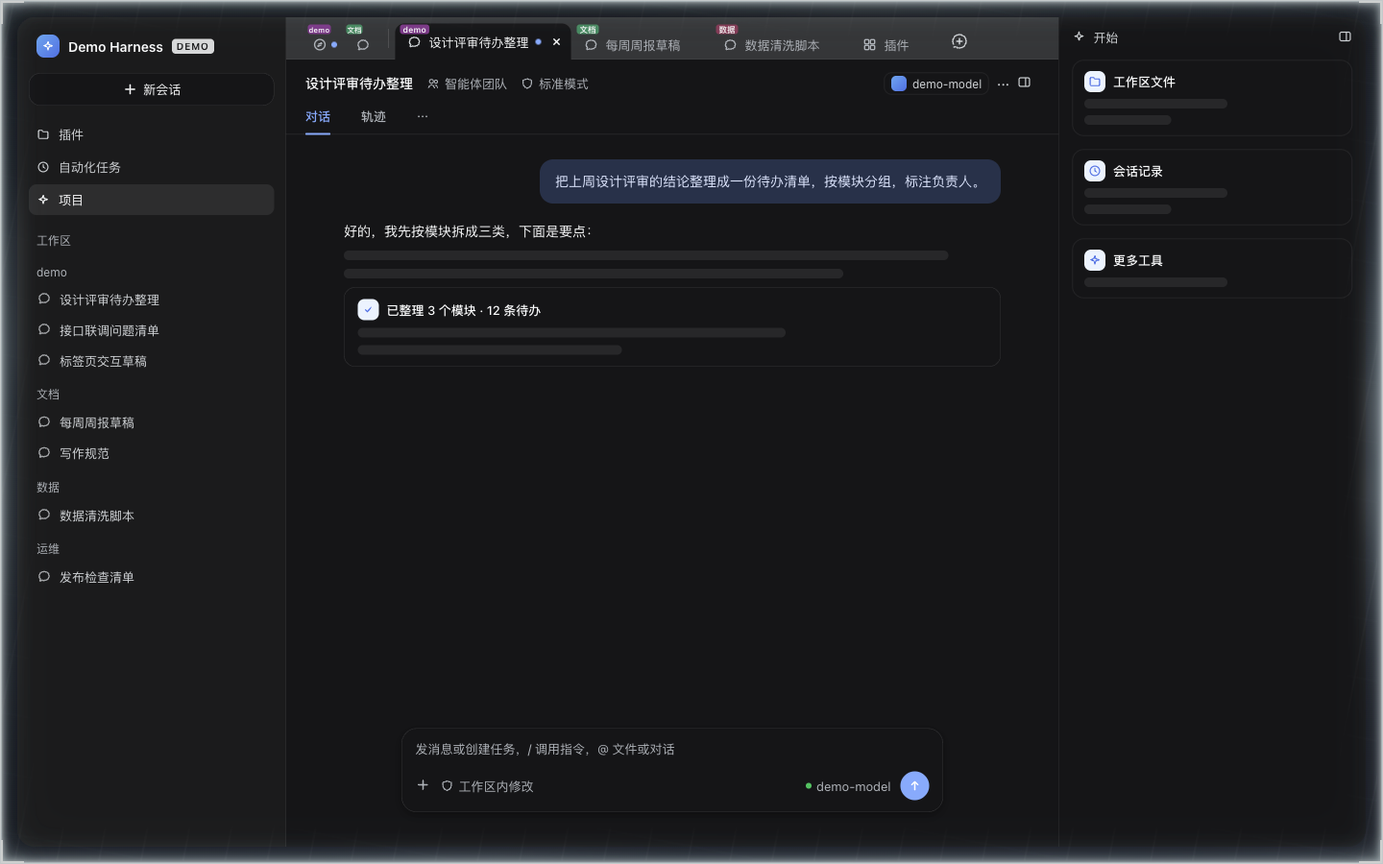
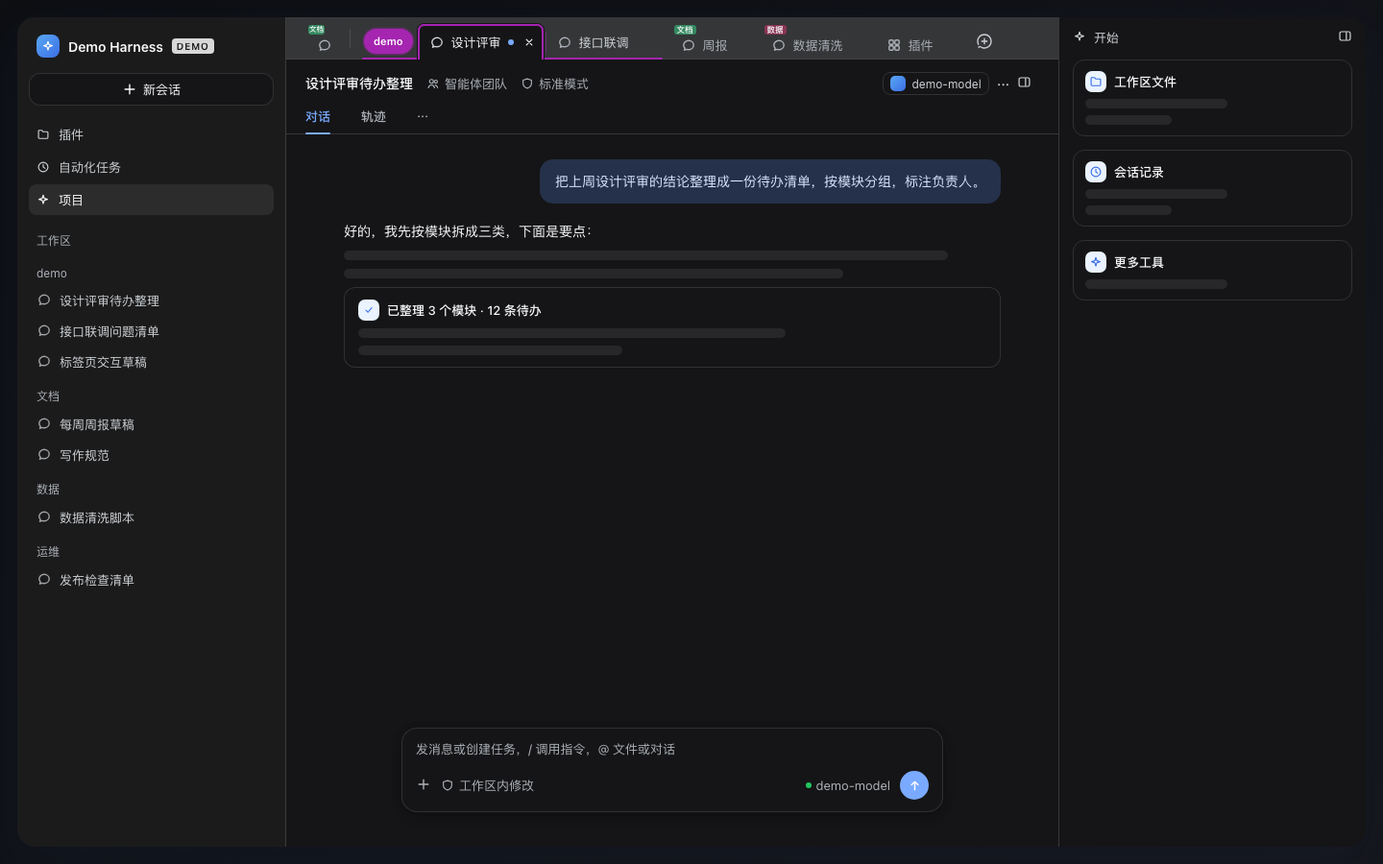
docs: 0.4.0 文档与截图更新（工作区标签组、点击不位移）
- README 功能/使用/原理/已知边界更新：工作区标签组、折叠、点击不改变宽高、移除 1.5 倍与 150ms 延迟说明
- CHANGELOG 0.4.0；版本 0.4.0
- mock 演示页改为工作区标签组；新增展开/折叠截图与顶栏特写

diff --git a/docs/mock/demo.html b/docs/mock/demo.html
@@ -150,16 +150,15 @@ html[data-windows-titlebar] .dsh-tab-pagebar{top:var(--dsh-windows-titlebar-heig
   background:transparent;color:var(--dsw-alias-label-tertiary);font:inherit;font-size:13px;line-height:18px;
   cursor:pointer;user-select:none;-webkit-user-select:none;-webkit-app-region:no-drag;touch-action:pan-y;
   animation:dsh-tab-enter .16s ease;
-  transition:background-color .12s ease,color .12s ease,height .14s cubic-bezier(.2,.7,.2,1),
-    max-width .14s cubic-bezier(.2,.7,.2,1),border-color .12s ease,border-radius .14s ease,box-shadow .12s ease}
+  transition:background-color .1s ease,color .1s ease,border-color .1s ease,box-shadow .1s ease}
 .dsh-tab-pagebar__tab:hover{background:var(--dsw-alias-interactive-bg-hover);color:var(--dsw-alias-label-secondary)}
 /* 选中标签：抬到页面底色、不画底边线，和下面的会话页连成一张纸；
    可用宽度是普通标签的 1.5 倍（180 → 270），标题短就按实际文字宽度收住、不留空白，
    标题长才展开到 1.5 倍。切换时宽度和高度一起过渡
    （只保留上方圆角，底部直角直接接页面，不再做额外的反圆角装饰） */
-.dsh-tab-pagebar__tab[aria-selected=true]{max-width:calc(var(--dsh-tab-max-width) * 1.5);height:38px;
-  background:var(--dsw-alias-bg-base);
-  border-color:var(--dsw-alias-border-l2);border-radius:10px 10px 0 0;color:var(--dsw-alias-label-primary)}
+.dsh-tab-pagebar__tab[aria-selected=true]{z-index:1;background:var(--dsw-alias-bg-base);
+  border-color:var(--dsw-alias-border-l2);border-radius:8px 8px 0 0;color:var(--dsw-alias-label-primary);
+  box-shadow:0 2px 8px 0 rgba(15,20,40,.07)}
 .dsh-tab-pagebar__tab[aria-selected=true]:hover{background:var(--dsw-alias-bg-base);
   color:var(--dsw-alias-label-primary)}
 /* 固定标签：只剩图标、宽度固定 40px；激活时也不展开 */
@@ -175,11 +174,44 @@ html[data-windows-titlebar] .dsh-tab-pagebar{top:var(--dsh-windows-titlebar-heig
 .dsh-tab-pagebar__tab[data-drop=before]{box-shadow:inset 2px 0 0 var(--dsw-alias-state-business-primary)}
 .dsh-tab-pagebar__tab[data-drop=after]{box-shadow:inset -2px 0 0 var(--dsw-alias-state-business-primary)}
 /* 左上角小角标：所属工作区（短名，悬停看全名） */
+/* 工作区标签组：参考 Chrome 标签组——淡色底 + 组头胶囊 + 组底部色线，色线绕过激活标签 */
+.dsh-tab-pagebar__group{position:relative;z-index:1;flex:none;display:flex;align-items:center;align-self:flex-end;
+  height:38px;margin:0 6px;padding:0 3px 0 2px;box-sizing:border-box;border-radius:10px 10px 0 0;
+  background:transparent}
+.dsh-tab-pagebar__group::after{content:"";position:absolute;left:0;right:0;bottom:0;height:2px;z-index:0;
+  background:hsl(var(--dsh-tab-group-hue, 214) 65% 42%);border-radius:1px;pointer-events:none}
+.dsh-tab-pagebar__group[data-collapsed=true]{height:auto;padding:0;margin:0 4px;background:transparent;border-radius:0}
+.dsh-tab-pagebar__group[data-collapsed=true]::after{display:none}
+.dsh-tab-pagebar__group-chip{flex:none;display:inline-flex;align-items:center;gap:4px;max-width:170px;
+  height:26px;padding:0 10px;margin-right:4px;border:none;border-radius:999px;color:#fff;font-family:inherit;
+  font-size:11px;font-weight:600;line-height:26px;cursor:pointer;overflow:hidden;white-space:nowrap;
+  background:hsl(var(--dsh-tab-group-hue, 214) 65% 42%);
+  box-shadow:0 0 0 .5px hsl(var(--dsh-tab-group-hue, 214) 60% 32% / .35)}
+.dsh-tab-pagebar__group[data-collapsed=true] .dsh-tab-pagebar__group-chip{margin-right:0;height:28px;line-height:28px}
+.dsh-tab-pagebar__group[data-active=true] .dsh-tab-pagebar__group-chip{box-shadow:0 0 0 1.5px hsl(var(--dsh-tab-group-hue, 214) 65% 42% / .35)}
+.dsh-tab-pagebar__group-chip:hover{filter:brightness(1.08)}
+.dsh-tab-pagebar__group-chip{-webkit-app-region:no-drag}
+.dsh-tab-pagebar__group-chip:focus-visible{outline:1.5px solid var(--dsw-focus-ring-color,var(--dsw-alias-state-business-primary));outline-offset:1px}
+.dsh-tab-pagebar__group-name{overflow:hidden;text-overflow:ellipsis}
+.dsh-tab-pagebar__group-count{flex:none;min-width:15px;height:15px;padding:0 4px;border-radius:999px;text-align:center;
+  font-size:9px;line-height:15px;background:#ffffff3d}
+.dsh-tab-pagebar__group-dot{flex:none;width:6px;height:6px;border-radius:50%;background:#fff}
+/* 组内标签：统一 38 高、无底色；分隔线用伪元素（不占宽度），激活态只用 inset 描边，不改变任何尺寸 */
+.dsh-tab-pagebar__tab[data-group-workspace]{position:relative;height:38px;z-index:1;background:transparent;box-shadow:none}
+.dsh-tab-pagebar__tab[data-group-workspace]::before{content:"";position:absolute;left:0;top:9px;bottom:7px;width:1px;
+  background:color-mix(in srgb, hsl(var(--dsh-tab-group-hue, 214) 65% 45%) 40%, transparent);pointer-events:none}
+.dsh-tab-pagebar__tab[data-group-workspace]:not([aria-selected=true]){color:var(--dsw-alias-label-secondary)}
+.dsh-tab-pagebar__tab[data-group-workspace]:hover{background:var(--dsw-alias-interactive-bg-hover)}
+.dsh-tab-pagebar__group-chip + .dsh-tab-pagebar__tab[data-group-workspace]::before{display:none}
+.dsh-tab-pagebar__tab[data-group-workspace][aria-selected=true]{background:var(--dsw-alias-bg-base);
+  color:var(--dsw-alias-label-primary);border-color:transparent;border-radius:8px 8px 0 0;
+  box-shadow:inset 0 2px 0 hsl(var(--dsh-tab-group-hue, 214) 65% 42%),
+    inset 2px 0 0 hsl(var(--dsh-tab-group-hue, 214) 65% 42%),
+    inset -2px 0 0 hsl(var(--dsh-tab-group-hue, 214) 65% 42%)}
+.dsh-tab-pagebar__tab[data-group-workspace][aria-selected=true]::before{display:none}
 .dsh-tab-pagebar__badge{position:absolute;left:5px;top:-5px;box-sizing:border-box;max-width:50%;height:10px;
   padding:0 3px;border-radius:3px;color:#fff;font-size:8.5px;font-weight:600;line-height:10px;letter-spacing:.01em;
   overflow:hidden;text-overflow:ellipsis;white-space:nowrap;pointer-events:none;opacity:.96}
-/* 激活标签更高，角标随之内收，避免顶到窗口最上沿（两种状态在屏幕上几乎同一高度） */
-.dsh-tab-pagebar__tab[aria-selected=true] .dsh-tab-pagebar__badge{top:1px}
 .dsh-tab-pagebar__tab[data-pinned=true] .dsh-tab-pagebar__badge{left:2px;max-width:38px;padding:0 1px;font-size:7.5px}
 .dsh-tab-pagebar__icon{position:relative;flex:none;width:16px;height:16px;display:grid;place-items:center;
   color:var(--dsw-alias-label-tertiary)}
@@ -253,7 +285,11 @@ body[data-ds-dark-theme]{color-scheme:dark}
   <main class="mock-main">
     <div class="dsh-tab-pagebar" role="presentation">
       <div class="dsh-tab-pagebar__strip" role="tablist" aria-label="会话标签页">
-        <div class="dsh-tab-pagebar__tab" role="tab" tabindex="-1" aria-selected="false" data-pinned="true" title="新会话 · demo"><span class="dsh-tab-pagebar__badge" style="background-color:hsl(295 46% 38%)" title="工作区：demo">demo</span><span class="dsh-tab-pagebar__icon"><svg viewBox="0 0 16 16" width="16" height="16" fill="none" stroke="currentColor" stroke-width="1.4" stroke-linecap="round" stroke-linejoin="round"><circle cx="8" cy="8" r="5.4"/><path d="M9.9 6.1 8.7 8.7 6.1 9.9l1.2-2.6 2.6-1.2Z"/></svg></span><span class="dsh-tab-pagebar__label">新会话</span><span class="dsh-tab-pagebar__dot" data-signal="running" role="img" aria-label="运行中" title="运行中"></span></div><div class="dsh-tab-pagebar__tab" role="tab" tabindex="-1" aria-selected="false" data-pinned="true" title="写作规范 · 文档"><span class="dsh-tab-pagebar__badge" style="background-color:hsl(151 46% 38%)" title="工作区：文档">文档</span><span class="dsh-tab-pagebar__icon"><svg viewBox="0 0 16 16" width="16" height="16" fill="none" stroke="currentColor" stroke-width="1.4" stroke-linecap="round" stroke-linejoin="round"><path d="M13.2 8c0 2.6-2.3 4.7-5.2 4.7-.6 0-1.2-.1-1.8-.3L3.5 13.2l.7-2c-.9-.8-1.4-2-1.4-3.2C2.8 5.4 5.1 3.3 8 3.3s5.2 2.1 5.2 4.7Z"/></svg></span><span class="dsh-tab-pagebar__label">写作规范</span></div><span class="dsh-tab-pagebar__divider" aria-hidden="true"></span><div class="dsh-tab-pagebar__tab" role="tab" tabindex="0" aria-selected="true" data-pinned="false" title="设计评审待办整理 · demo"><span class="dsh-tab-pagebar__badge" style="background-color:hsl(295 46% 38%)" title="工作区：demo">demo</span><span class="dsh-tab-pagebar__icon"><svg viewBox="0 0 16 16" width="16" height="16" fill="none" stroke="currentColor" stroke-width="1.4" stroke-linecap="round" stroke-linejoin="round"><path d="M13.2 8c0 2.6-2.3 4.7-5.2 4.7-.6 0-1.2-.1-1.8-.3L3.5 13.2l.7-2c-.9-.8-1.4-2-1.4-3.2C2.8 5.4 5.1 3.3 8 3.3s5.2 2.1 5.2 4.7Z"/></svg></span><span class="dsh-tab-pagebar__label">设计评审待办整理</span><span class="dsh-tab-pagebar__dot" data-signal="running" role="img" aria-label="运行中" title="运行中"></span><button type="button" class="dsh-tab-pagebar__close" title="关闭标签页" aria-label="关闭标签页"><svg viewBox="0 0 16 16" width="12" height="12" fill="none" stroke="currentColor" stroke-width="1.5" stroke-linecap="round"><path d="M4.2 4.2l7.6 7.6M11.8 4.2l-7.6 7.6"/></svg></button></div><div class="dsh-tab-pagebar__tab" role="tab" tabindex="-1" aria-selected="false" data-pinned="false" title="每周周报草稿 · 文档"><span class="dsh-tab-pagebar__badge" style="background-color:hsl(151 46% 38%)" title="工作区：文档">文档</span><span class="dsh-tab-pagebar__icon"><svg viewBox="0 0 16 16" width="16" height="16" fill="none" stroke="currentColor" stroke-width="1.4" stroke-linecap="round" stroke-linejoin="round"><path d="M13.2 8c0 2.6-2.3 4.7-5.2 4.7-.6 0-1.2-.1-1.8-.3L3.5 13.2l.7-2c-.9-.8-1.4-2-1.4-3.2C2.8 5.4 5.1 3.3 8 3.3s5.2 2.1 5.2 4.7Z"/></svg></span><span class="dsh-tab-pagebar__label">每周周报草稿</span><button type="button" class="dsh-tab-pagebar__close" title="关闭标签页" aria-label="关闭标签页"><svg viewBox="0 0 16 16" width="12" height="12" fill="none" stroke="currentColor" stroke-width="1.5" stroke-linecap="round"><path d="M4.2 4.2l7.6 7.6M11.8 4.2l-7.6 7.6"/></svg></button></div><div class="dsh-tab-pagebar__tab" role="tab" tabindex="-1" aria-selected="false" data-pinned="false" title="数据清洗脚本 · 数据"><span class="dsh-tab-pagebar__badge" style="background-color:hsl(338 46% 38%)" title="工作区：数据">数据</span><span class="dsh-tab-pagebar__icon"><svg viewBox="0 0 16 16" width="16" height="16" fill="none" stroke="currentColor" stroke-width="1.4" stroke-linecap="round" stroke-linejoin="round"><path d="M13.2 8c0 2.6-2.3 4.7-5.2 4.7-.6 0-1.2-.1-1.8-.3L3.5 13.2l.7-2c-.9-.8-1.4-2-1.4-3.2C2.8 5.4 5.1 3.3 8 3.3s5.2 2.1 5.2 4.7Z"/></svg></span><span class="dsh-tab-pagebar__label">数据清洗脚本</span><button type="button" class="dsh-tab-pagebar__close" title="关闭标签页" aria-label="关闭标签页"><svg viewBox="0 0 16 16" width="12" height="12" fill="none" stroke="currentColor" stroke-width="1.5" stroke-linecap="round"><path d="M4.2 4.2l7.6 7.6M11.8 4.2l-7.6 7.6"/></svg></button></div><div class="dsh-tab-pagebar__tab" role="tab" tabindex="-1" aria-selected="false" data-pinned="false" data-panel-tab="true" title="插件"><span class="dsh-tab-pagebar__icon"><svg viewBox="0 0 16 16" width="16" height="16" fill="none" stroke="currentColor" stroke-width="1.4"><rect x="2.8" y="2.8" width="4.4" height="4.4" rx="1.2"/><rect x="8.8" y="2.8" width="4.4" height="4.4" rx="1.2"/><rect x="2.8" y="8.8" width="4.4" height="4.4" rx="1.2"/><rect x="8.8" y="8.8" width="4.4" height="4.4" rx="1.2"/></svg></span><span class="dsh-tab-pagebar__label">插件</span><button type="button" class="dsh-tab-pagebar__close" title="关闭标签页" aria-label="关闭标签页"><svg viewBox="0 0 16 16" width="12" height="12" fill="none" stroke="currentColor" stroke-width="1.5" stroke-linecap="round"><path d="M4.2 4.2l7.6 7.6M11.8 4.2l-7.6 7.6"/></svg></button></div>
+        <div class="dsh-tab-pagebar__tab" role="tab" tabindex="-1" aria-selected="false" data-pinned="true" title="写作规范 · 文档"><span class="dsh-tab-pagebar__badge" style="background-color:hsl(151 46% 38%)" title="工作区：文档">文档</span><span class="dsh-tab-pagebar__icon"><svg viewBox="0 0 16 16" width="16" height="16" fill="none" stroke="currentColor" stroke-width="1.4" stroke-linecap="round" stroke-linejoin="round"><path d="M13.2 8c0 2.6-2.3 4.7-5.2 4.7-.6 0-1.2-.1-1.8-.3L3.5 13.2l.7-2c-.9-.8-1.4-2-1.4-3.2C2.8 5.4 5.1 3.3 8 3.3s5.2 2.1 5.2 4.7Z"/></svg></span><span class="dsh-tab-pagebar__label">写作规范</span></div><span class="dsh-tab-pagebar__divider" aria-hidden="true"></span><div class="dsh-tab-pagebar__group" role="group" data-collapsed="false" data-active="true"
+    aria-label="demo · 2 个标签" style="--dsh-tab-group-hue: 295">
+    <button type="button" class="dsh-tab-pagebar__group-chip" aria-expanded="true">
+      <span class="dsh-tab-pagebar__group-name">demo</span>
+    </button><div class="dsh-tab-pagebar__tab" role="tab" tabindex="0" aria-selected="true" data-pinned="false" data-group-workspace="true" title="设计评审 · demo"><span class="dsh-tab-pagebar__icon"><svg viewBox="0 0 16 16" width="16" height="16" fill="none" stroke="currentColor" stroke-width="1.4" stroke-linecap="round" stroke-linejoin="round"><path d="M13.2 8c0 2.6-2.3 4.7-5.2 4.7-.6 0-1.2-.1-1.8-.3L3.5 13.2l.7-2c-.9-.8-1.4-2-1.4-3.2C2.8 5.4 5.1 3.3 8 3.3s5.2 2.1 5.2 4.7Z"/></svg></span><span class="dsh-tab-pagebar__label">设计评审</span><span class="dsh-tab-pagebar__dot" data-signal="running" role="img" aria-label="运行中" title="运行中"></span><button type="button" class="dsh-tab-pagebar__close" title="关闭标签页" aria-label="关闭标签页"><svg viewBox="0 0 16 16" width="12" height="12" fill="none" stroke="currentColor" stroke-width="1.5" stroke-linecap="round"><path d="M4.2 4.2l7.6 7.6M11.8 4.2l-7.6 7.6"/></svg></button></div><div class="dsh-tab-pagebar__tab" role="tab" tabindex="-1" aria-selected="false" data-pinned="false" data-group-workspace="true" title="接口联调 · demo"><span class="dsh-tab-pagebar__icon"><svg viewBox="0 0 16 16" width="16" height="16" fill="none" stroke="currentColor" stroke-width="1.4" stroke-linecap="round" stroke-linejoin="round"><path d="M13.2 8c0 2.6-2.3 4.7-5.2 4.7-.6 0-1.2-.1-1.8-.3L3.5 13.2l.7-2c-.9-.8-1.4-2-1.4-3.2C2.8 5.4 5.1 3.3 8 3.3s5.2 2.1 5.2 4.7Z"/></svg></span><span class="dsh-tab-pagebar__label">接口联调</span><button type="button" class="dsh-tab-pagebar__close" title="关闭标签页" aria-label="关闭标签页"><svg viewBox="0 0 16 16" width="12" height="12" fill="none" stroke="currentColor" stroke-width="1.5" stroke-linecap="round"><path d="M4.2 4.2l7.6 7.6M11.8 4.2l-7.6 7.6"/></svg></button></div></div><div class="dsh-tab-pagebar__tab" role="tab" tabindex="-1" aria-selected="false" data-pinned="false" title="周报 · 文档"><span class="dsh-tab-pagebar__badge" style="background-color:hsl(151 46% 38%)" title="工作区：文档">文档</span><span class="dsh-tab-pagebar__icon"><svg viewBox="0 0 16 16" width="16" height="16" fill="none" stroke="currentColor" stroke-width="1.4" stroke-linecap="round" stroke-linejoin="round"><path d="M13.2 8c0 2.6-2.3 4.7-5.2 4.7-.6 0-1.2-.1-1.8-.3L3.5 13.2l.7-2c-.9-.8-1.4-2-1.4-3.2C2.8 5.4 5.1 3.3 8 3.3s5.2 2.1 5.2 4.7Z"/></svg></span><span class="dsh-tab-pagebar__label">周报</span><button type="button" class="dsh-tab-pagebar__close" title="关闭标签页" aria-label="关闭标签页"><svg viewBox="0 0 16 16" width="12" height="12" fill="none" stroke="currentColor" stroke-width="1.5" stroke-linecap="round"><path d="M4.2 4.2l7.6 7.6M11.8 4.2l-7.6 7.6"/></svg></button></div><div class="dsh-tab-pagebar__tab" role="tab" tabindex="-1" aria-selected="false" data-pinned="false" title="数据清洗 · 数据"><span class="dsh-tab-pagebar__badge" style="background-color:hsl(338 46% 38%)" title="工作区：数据">数据</span><span class="dsh-tab-pagebar__icon"><svg viewBox="0 0 16 16" width="16" height="16" fill="none" stroke="currentColor" stroke-width="1.4" stroke-linecap="round" stroke-linejoin="round"><path d="M13.2 8c0 2.6-2.3 4.7-5.2 4.7-.6 0-1.2-.1-1.8-.3L3.5 13.2l.7-2c-.9-.8-1.4-2-1.4-3.2C2.8 5.4 5.1 3.3 8 3.3s5.2 2.1 5.2 4.7Z"/></svg></span><span class="dsh-tab-pagebar__label">数据清洗</span><button type="button" class="dsh-tab-pagebar__close" title="关闭标签页" aria-label="关闭标签页"><svg viewBox="0 0 16 16" width="12" height="12" fill="none" stroke="currentColor" stroke-width="1.5" stroke-linecap="round"><path d="M4.2 4.2l7.6 7.6M11.8 4.2l-7.6 7.6"/></svg></button></div><div class="dsh-tab-pagebar__tab" role="tab" tabindex="-1" aria-selected="false" data-pinned="false" data-panel-tab="true" title="插件"><span class="dsh-tab-pagebar__icon"><svg viewBox="0 0 16 16" width="16" height="16" fill="none" stroke="currentColor" stroke-width="1.4"><rect x="2.8" y="2.8" width="4.4" height="4.4" rx="1.2"/><rect x="8.8" y="2.8" width="4.4" height="4.4" rx="1.2"/><rect x="2.8" y="8.8" width="4.4" height="4.4" rx="1.2"/><rect x="8.8" y="8.8" width="4.4" height="4.4" rx="1.2"/></svg></span><span class="dsh-tab-pagebar__label">插件</span><button type="button" class="dsh-tab-pagebar__close" title="关闭标签页" aria-label="关闭标签页"><svg viewBox="0 0 16 16" width="12" height="12" fill="none" stroke="currentColor" stroke-width="1.5" stroke-linecap="round"><path d="M4.2 4.2l7.6 7.6M11.8 4.2l-7.6 7.6"/></svg></button></div>
       </div>
       <button type="button" class="dsh-tab-pagebar__new" title="新建会话" aria-label="新建会话"><svg viewBox="0 0 16 16" width="16" height="16" fill="none"><path fill="currentColor" d="M8.00003 0.3237C3.76075 0.3237 0.32373 3.76072 0.32373 8C0.32373 9.17603 0.589121 10.2922 1.0632 11.2901L1.35291 11.8989L2.5705 11.3205L2.28079 10.7117C1.89079 9.89074 1.67301 8.97167 1.67301 8C1.67301 4.50546 4.50549 1.67298 8.00003 1.67298C11.4946 1.67298 14.3271 4.50546 14.3271 8C14.3271 11.4945 11.4946 14.327 8.00003 14.327C7.28473 14.327 6.76077 14.277 6.29621 14.1487C5.83857 14.0224 5.40441 13.8109 4.88514 13.4488C4.12569 12.919 3.03778 12.7316 2.141 13.2978L2.12682 13.307L2.11264 13.3171L1.34886 13.854L1.79659 15.188L2.86122 14.4384C3.19068 14.2305 3.68325 14.2542 4.11326 14.5539C4.72789 14.9826 5.30042 15.2724 5.93762 15.4484C6.56803 15.6224 7.22776 15.6763 8.00003 15.6763C12.2393 15.6763 15.6763 12.2393 15.6763 8C15.6763 3.76072 12.2393 0.3237 8.00003 0.3237ZM7.32033 4.82535V7.32536H4.82538V8.67464H7.32033V11.1747H8.6696V8.67464H11.1747V7.32536H8.6696V4.82535H7.32033Z"/></svg></button>
     </div>
@@ -314,6 +350,16 @@ body[data-ds-dark-theme]{color-scheme:dark}
   const params = new URLSearchParams(location.search)
   if (params.get('theme') === 'dark') document.body.setAttribute('data-ds-dark-theme', '')
   if (params.get('menu') === '1') document.documentElement.setAttribute('data-demo-menu', '1')
+  if (params.get('collapsed') === '1') {
+    const group = document.querySelector('.dsh-tab-pagebar__group')
+    if (group) {
+      group.dataset.collapsed = 'true'
+      group.querySelectorAll('.dsh-tab-pagebar__tab').forEach((element) => element.remove())
+      const chip = group.querySelector('.dsh-tab-pagebar__group-chip')
+      chip.setAttribute('aria-expanded', 'false')
+      chip.insertAdjacentHTML('beforeend', '<span class="dsh-tab-pagebar__group-count">2</span><span class="dsh-tab-pagebar__group-dot"></span>')
+    }
+  }
 </script>
 </body>
 </html>

diff --git a/README.md b/README.md
@@ -1,8 +1,8 @@
 # dsh-tab
 
-给 [DeepSeek Harness](https://github.com/deepseek-ai/deepseek-harness)（DSH）会话区加一排书页式会话标签页：一个会话一个标签，切换不刷新页面，可以固定、关闭、归档、拖拽排序，每个标签还会显示它所属的工作区。
+给 [DeepSeek Harness](https://github.com/deepseek-ai/deepseek-harness)（DSH）会话区加一排书页式会话标签页：一个会话一个标签，切换不刷新页面，可以固定、关闭、归档、拖拽排序；同一工作区的多个标签会自动聚合成一个 Chrome 风格标签组，点击标签也不会挤动其他标签的位置。
 
-Browser-style conversation tabs for DeepSeek Harness (DSH): one tab per conversation, workspace badges, drag reorder, pin / close / archive. Built on official DSH slots, services and theme tokens.
+Browser-style conversation tabs for DeepSeek Harness (DSH): one tab per conversation, Chrome-style workspace tab groups with collapse, drag reorder, pin / close / archive — and selecting a tab never shifts the others. Built on official DSH slots, services and theme tokens.
 
 [![npm](https://img.shields.io/npm/v/dsh-tab.svg?color=cb3837)](https://www.npmjs.com/package/dsh-tab)
 [![License: MIT](https://img.shields.io/badge/license-MIT-blue.svg)](https://github.com/imchangchang/dsh-tab/blob/main/LICENSE)
@@ -16,7 +16,8 @@ npm 包名：**`dsh-tab`**。
 ## 功能
 
 - **一个会话一个标签页**：打开、恢复、新建会话时自动入签；点击标签走官方 `uiWorkspace.openSession`，不刷新页面。当前会话的标签和下面的会话页连成一张纸，形成「书页」效果。
-- **工作区角标**：每个标签左上角显示所属工作区（颜色由工作区 ID 哈希得到，文字是工作区名，悬停看全名）；固定标签只显示图标时用更小字号。
+- **工作区角标**：未参与分组的标签左上角显示所属工作区（颜色由工作区 ID 哈希得到，文字是工作区名，悬停看全名）；固定标签只显示图标时用更小字号。
+- **工作区标签组（Chrome 风格）**：同一工作区有 2 个以上未固定会话标签时自动聚合成一个标签组——组头是工作区色胶囊（点击折叠/展开），组底部一条工作区色线；选中组内标签时用白底 + 同色描边「冒」出来。折叠后只留胶囊、标签数量和活动小圆点，折叠状态存 `localStorage`。固定标签、面板标签不参与聚合，拖拽只在同一组内排序。
 - **新建会话**：`+` 在最后一个标签右侧；标签多到放不下时标签条自己横向滚动，`+` 始终可见。
 - **侧栏页面也是标签页**：点侧栏的「插件」「自动化任务」等全局面板时，会新增（或切换到已存在的）对应标签，不再顶掉当前会话标签；点回会话标签就收起面板、回到会话。面板标签同样可以关闭、固定、拖拽排序和持久化，面板卸载后标签自动移除。
 - **固定 / 取消固定**：固定的标签排在最左、只显示图标（40px 宽）并带状态点，和普通标签之间有分隔线。
@@ -24,12 +25,12 @@ npm 包名：**`dsh-tab`**。
 - **右键菜单**：关闭标签页 / 关闭右侧 / 关闭其他 / 关闭全部 / 固定（取消固定）/ 归档会话。归档走官方 `uiWorkspace.archiveSession`，会话正在运行或等待回复时先确认「停止并归档」。
 - **状态点**：蓝色呼吸点 = 正在运行，黄色 = 等你回复，绿色 = 有新的完成内容。
 - **键盘**：标签获得焦点时 `←` / `→` 切换相邻标签并激活；右键菜单里 `Esc` 关闭。
-- **过渡**：切换标签时先跑 140ms 的宽度 / 高度过渡，动画结束后再切会话内容——官方切会话会同步重渲染整个会话页（实测一次 60–75ms 长任务），两段并行会把标签动画顶卡。代价是内容切换比点击晚约 150ms。
+- **点击不位移**：点击标签不会改变任何标签的宽度或高度，也不会挤动左右位置；「被拿到前面」只靠白底、描边和很淡的投影表达，会话内容立即切换。
 - **浅色 / 深色**：全部颜色走 `--dsw-alias-*` token，自动跟随主题。
 
 ## 截图
 
-下面三张截图全部用模拟数据生成（左侧栏、工作区、会话标题都是虚构的），原始页面在 [`docs/mock/demo.html`](https://github.com/imchangchang/dsh-tab/blob/main/docs/mock/demo.html)，可以本地打开或跑 `npm run docs:mock` 重新生成。
+下面四张截图全部用模拟数据生成（左侧栏、工作区、会话标题都是虚构的），原始页面在 [`docs/mock/demo.html`](https://github.com/imchangchang/dsh-tab/blob/main/docs/mock/demo.html)，可以本地打开或跑 `npm run docs:mock` 重新生成。
 
 浅色主题：
 
@@ -38,6 +39,10 @@ npm 包名：**`dsh-tab`**。
 深色主题：
 
 ![深色主题](https://cdn.jsdelivr.net/gh/imchangchang/dsh-tab@v0.3.1/docs/images/tabs-dark.png)
+
+工作区标签组折叠后（只剩组头胶囊、数量和活动点）：
+
+![工作区标签组折叠](https://cdn.jsdelivr.net/gh/imchangchang/dsh-tab@v0.3.1/docs/images/group-collapsed.png)
 
 右键菜单（固定标签、关闭、归档）：
 
@@ -79,6 +84,7 @@ git clone https://github.com/imchangchang/dsh-tab.git
 | 关闭标签页 | 标签页上的 `×` / 鼠标中键 / 右键菜单 |
 | 新建会话 | 最后一个标签右侧的 `+` |
 | 打开侧栏页面 | 点侧栏的「插件」「自动化任务」等，自动新增/切换对应标签页 |
+| 折叠 / 展开工作区标签组 | 点组头的彩色胶囊 |
 | 调整顺序 | 按住标签左右拖拽（同组内） |
 | 固定 / 取消固定 | 右键菜单 → 固定标签页 / 取消固定标签页 |
 | 关闭一批 | 右键菜单 → 关闭右侧 / 关闭其他 / 关闭全部 |
@@ -102,7 +108,7 @@ git clone https://github.com/imchangchang/dsh-tab.git
 | 帧布局样式 | 把三栏 frame 改成三行：第 1 行 44px 给标签栏，第 2 行会话内容，第 3 行官方 `shell.bottom`。只依赖官方既有标记 `data-shell-bottom` / `data-shell-overlay` / `data-side` |
 | `ctx.uiWorkspace.openSession / startSession / archiveSession` | 切换、新建、归档会话 |
 | `ctx.sessions.list` | 读当前会话（`retainedBy.mainView > 0`）与会话状态 |
-| `useWorkspaces` | 取工作区标题与会话归属，生成角标 |
+| `useWorkspaces` | 取工作区标题与会话归属，生成角标并按工作区聚合标签组 |
 | `ctx.slots.inject('shell.overlay', …)` | 注册 React 组件，标准 props 直接可用 |
 | `ctx.locale.register / bind` | 中英文文案 |
 | 主题 token | `--dsw-alias-*`，浅色 / 深色自动跟随 |
@@ -149,10 +155,10 @@ scripts/make-demo.mjs 生成演示页
 
 ## 已知边界
 
-- 标签宽度跟着标题文字自适应：普通标签最多 180px，激活标签最多 270px（普通标签的 1.5 倍），标题短就正好显示全部文字、不预留空白。
-- 工作区角标最多占标签宽度的 1/2，长工作区名会截断（悬停看全名）；固定标签只有 40px 宽，角标固定 38px。
+- 标签宽度跟着标题文字自适应、最多 180px；点击标签不改变宽高和位置，所以长标题会被截断，悬停可看完整标题。
+- 未分组标签的工作区角标最多占标签宽度的 1/2，长工作区名会截断（悬停看全名）；固定标签只有 40px 宽，角标固定 38px；组内标签不显示角标（工作区信息在组头）。
+- 工作区标签组依赖官方 `useWorkspaces` 的 `sessionIds` 映射；没有被任何工作区收录的会话标签不会参与聚合。
 - 拖拽只在同一分组内生效，不能把固定标签拖成普通标签；拖到另一端时不会自动滚标签条。
-- 切换标签会先跑标签动画、再切会话内容，内容比点击晚约 150ms；可以用 `client.js` 顶部的 `SELECT_COMMIT_DELAY` 调整或关闭这个延迟。
 - 未实现全局快捷键（`⌘T` / `⌘W` 等）；右键菜单不支持方向键导航（标签本身支持 `←` / `→`）。
 - 设置、账号菜单这类界面是官方弹窗（overlay），不是全局面板，因此仍以弹窗形式覆盖在当前标签页上；如果要让它们也变成标签页，需要额外接管弹窗的打开/关闭，暂未实现。
 - 只在 macOS 的 DSH 桌面版和 Chrome 系 Web GUI 上验证过，其他平台尚未测试。

diff --git a/CHANGELOG.md b/CHANGELOG.md
@@ -1,5 +1,14 @@
 # Changelog
 
+## 0.4.0 — 2026-11-12
+
+- 同一工作区的会话标签自动聚合成一个 Chrome 风格标签组：组头是工作区色胶囊（显示工作区名），组底部一条工作区色线；组内选中的标签用白底 + 同色描边「冒」出来。
+- 标签组可点击组头折叠/展开；折叠后只留胶囊、数量与当前活动小圆点，折叠状态存 localStorage。
+- 点击标签不再改变标签的宽高、也不会挤动左右位置：取消原来的 1.5 倍宽度和加高动画，只保留白底/描边/淡投影表示「拿到前面」；内容切换也改为立即生效。
+- 同一工作区 ≥2 个未固定标签才成组；固定标签、面板标签不参与分组；拖拽限制在同一组内。
+- README、mock 演示页与截图同步更新（新增展开 / 折叠的标签组示例）。
+
+
 ## 0.3.1 — 2026-11-10
 
 - 标签栏的 `+` 换成官方「新建对话」图标（侧栏折叠时那个圆形加号），并把按钮垂直中心对齐到激活标签的中心（原来偏上 3px）。
